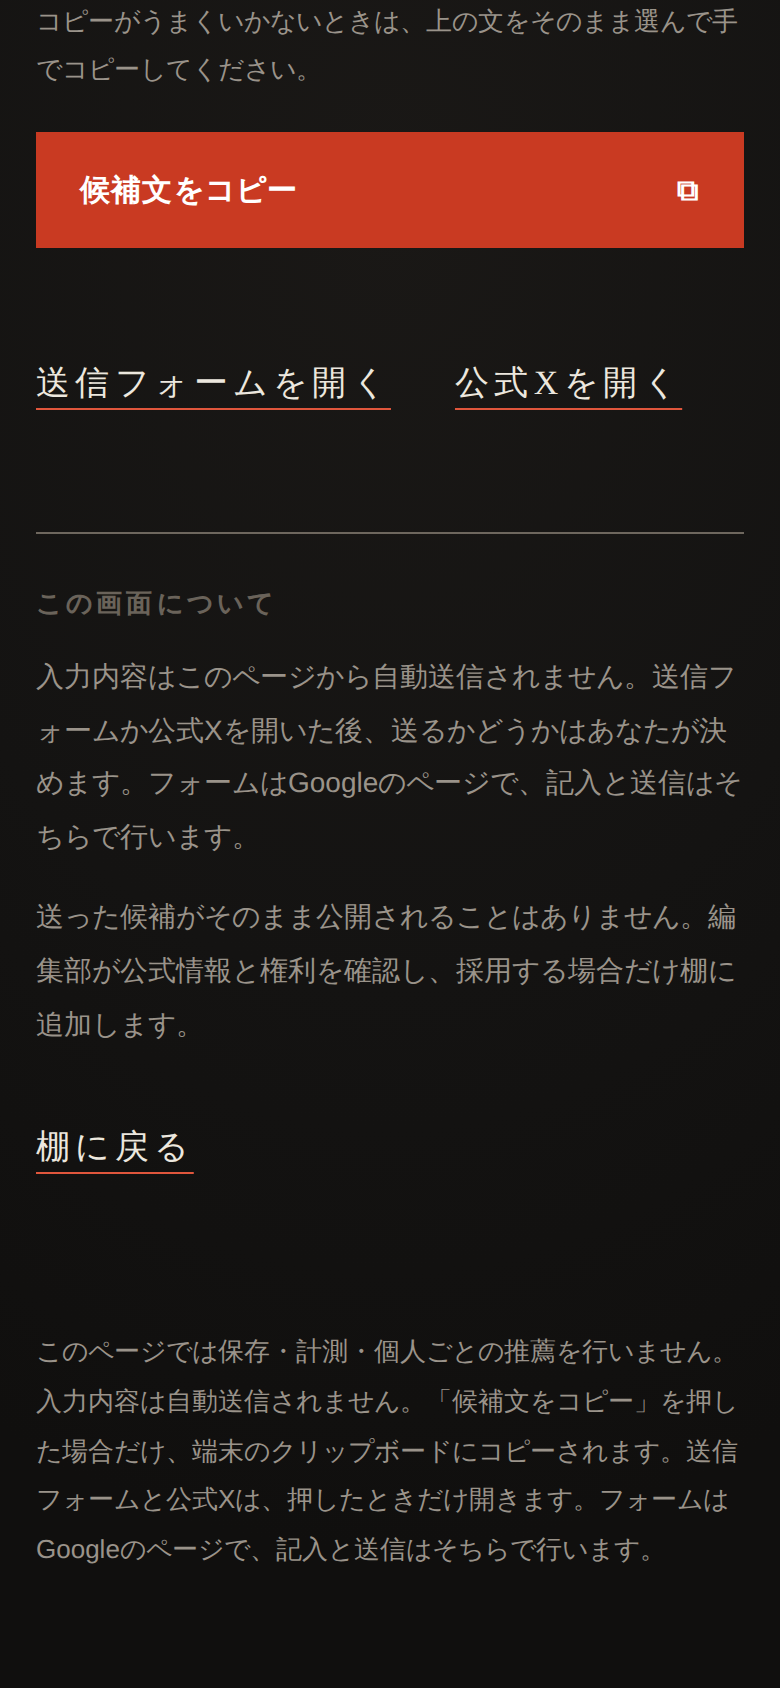
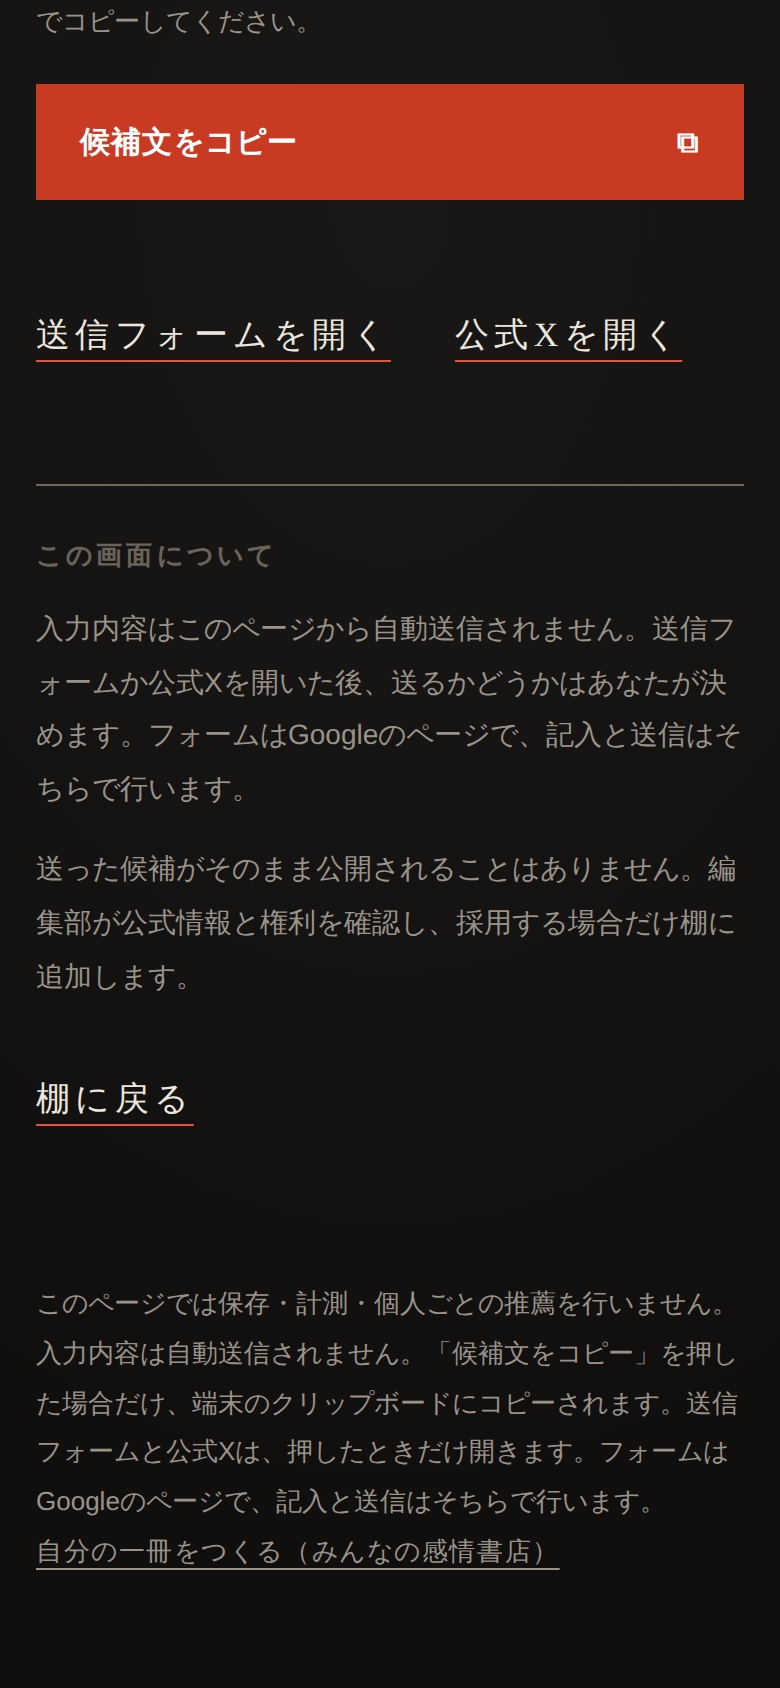
feat: 本体サイトと文化案内を互いにつなぐ
/machi/ は公開したが、そこへ至る導線がどこにも無かった。sitemap には
載っているので検索からは拾われるが、人がたどり着く道が無い状態だった。
逆に文化案内の側にも本体への出口が無く、行き止まりになっていた。

本体サイト（追加は3行）:
- フッターに「街の棚を見る」を1本。凡例と同じ弱さで置き、書店の顔は変えない
- main.js の辞書に machiLink を和英とも追加。文化案内は日本語のみなので、
  英語では "Town shelves (Japanese only)" として、行った先が日本語だと
  先に伝える
- style.css に .machi-row / .machi-link

文化案内（3ページとも）:
- フッターに「自分の一冊をつくる（みんなの感情書店）」を1本

検証:
- machi: release_check GO / browser_qa 559/559 + 1 NOT OBSERVABLE /
  expiry_boundaries GO / preflight GO
- 本体: tests/qa_r21_initial_paint.js 9/9 pass
- 本体をブラウザで読み込み、リンクが可視で href が ./machi/、
  data-i18n が machiLink であること、page error が0件であることを実測
- 文化案内3ページとも戻り導線が可視であることを実測

既知の失敗との分離:
- tests/qa_r21_boot_matrix.js は時間切れ、smoke_test_sonnet_hotfix4.js は
  jsdom 未導入で起動しない。どちらも変更前の HEAD を隔離コピーして同じ
  結果になることを確認済みで、今回起因ではない。

保存・製本・本棚・GA4・外部通信への影響なし。本体に足したのは同一オリジンの
相対リンク1本のみ。

Claude-Session: https://claude.ai/code/session_018poV34fXL7Au8c8NUFyCym

diff --git a/main.js b/main.js
@@ -249,6 +249,7 @@ const MESSAGES = {
     shioriCardTitle: "今日の栞", shioriCardNote: "本棚ぜんたいを眺めた店主から、一枚。今日綴った一冊ではなく、いちばん多く並んでいる棚のお話です。",
     shioriLabel: "栞 — 店主より", shioriBtn: "栞を受け取る",
     footerBrand: "『みんなの感情書店』",
+    machiLink: "街の棚を見る",
     footerNote: "綴った言葉はサーバーには送信されず、この端末にのみ保存されます。",
     // ★Hotfix4追加：フッター注記を指定どおり2行に改行表示するための版（data-i18n-html用）。
     footerNoteHtml: "綴った言葉は運営者のサーバーへ送信されず、<br>この端末にのみ保存されます。",
@@ -771,6 +772,7 @@ const MESSAGES = {
     shioriCardTitle: "Today's Bookmark", shioriCardNote: "A note from the shopkeeper, after looking over your whole bookshelf — about the shelf that holds the most books, not the one you wrote in today.",
     shioriLabel: "Bookmark — from the shopkeeper", shioriBtn: "Receive today's bookmark",
     footerBrand: "\"The Bookstore of Feelings\"",
+    machiLink: "Town shelves (Japanese only)",
     footerNote: "What you write is never sent to a server — it's stored only on this device.",
     footerNoteHtml: "What you write is never sent to our servers —<br>it's stored only on this device.",
     shareBtn: "Share this bookstore", copyUrlBtn: "Copy URL", pwaPinBtn: "Pin to home screen",

diff --git a/index.html b/index.html
@@ -1265,6 +1265,7 @@ body.night .about-data-content{
   <footer class="shop-footer">
     <span data-i18n="footerBrand">『みんなの感情書店』</span><br>
     <span data-i18n-html="footerNoteHtml">綴った言葉は運営者のサーバーへ送信されず、<br>この端末にのみ保存されます。</span>
+    <p class="machi-row"><a class="machi-link" href="./machi/" data-i18n="machiLink">街の棚を見る</a></p>
     <!-- ===== 追加：店主への差し入れ（投げ銭）— 広告バナーではなく"差し入れ"という体裁で、
          世界観を壊さずに任意の支援を受け付ける導線。URLは運営者ご自身のBuy Me a Coffee /
          Ko-fi等のページに差し替えてください（現在はダミーのプレースホルダーです） ===== -->

diff --git a/machi/release.css b/machi/release.css
@@ -1020,3 +1020,16 @@ button:focus-visible, a:focus-visible, .object-card:has(:focus-visible) {
   /* box-shadow が捨てられる環境なので、閉じるの focus は outline で示す。 */
   .dialog-close:focus-visible { outline: 2px solid Highlight; outline-offset: 2px; }
 }
+
+/* 同じブランドのもう一方（言葉を一冊にする書店）への出口。
+   ここから先へ進めないと、案内は行き止まりになる。ただし棚の主役では
+   ないので、注記と同じ弱さで置く。 */
+.sibling-row { margin: 14px 0 0; }
+.sibling-link {
+  color: var(--chalk-dim);
+  text-decoration: underline;
+  text-underline-offset: .28em;
+  font-size: 0.8125rem;
+  letter-spacing: .06em;
+}
+.sibling-link:hover { color: var(--chalk); }

diff --git a/machi/suggest.html b/machi/suggest.html
@@ -107,6 +107,7 @@
 
   <footer class="site-footer">
     <p class="privacy-note">このページでは保存・計測・個人ごとの推薦を行いません。入力内容は自動送信されません。「候補文をコピー」を押した場合だけ、端末のクリップボードにコピーされます。送信フォームと公式Xは、押したときだけ開きます。フォームはGoogleのページで、記入と送信はそちらで行います。</p>
+    <p class="sibling-row"><a class="sibling-link" href="/">自分の一冊をつくる（みんなの感情書店）</a></p>
   </footer>
 
   <div id="live" class="sr-only" role="status" aria-live="polite"></div>

diff --git a/machi/shelf.html b/machi/shelf.html
@@ -66,6 +66,7 @@
 
   <footer class="site-footer">
     <p class="privacy-note">このページでは保存・計測・個人ごとの推薦を行いません。画像の出典と利用条件は各詳細に記載しています。公式リンクは押したときだけ開きます。</p>
+    <p class="sibling-row"><a class="sibling-link" href="/">自分の一冊をつくる（みんなの感情書店）</a></p>
   </footer>
 
   <dialog id="detailDialog" class="detail-dialog" aria-labelledby="detailTitle">

diff --git a/machi/index.html b/machi/index.html
@@ -75,6 +75,7 @@
 
   <footer class="site-footer">
     <p class="privacy-note">このページでは保存・計測・個人ごとの推薦を行いません。画像の出典と利用条件は各詳細に記載しています。公式リンクは押したときだけ開きます。</p>
+    <p class="sibling-row"><a class="sibling-link" href="/">自分の一冊をつくる（みんなの感情書店）</a></p>
   </footer>
 
   <div id="live" class="sr-only" role="status" aria-live="polite"></div>

diff --git a/style.css b/style.css
@@ -1667,6 +1667,14 @@ footer.shop-footer{
   text-decoration:underline;
 }
 .legal-sep{ color:var(--ink-soft); margin:0 6px; }
+/* 文化案内（/machi/）への静かな出口。書店の顔を壊さないよう、
+   凡例と同じ弱さで置く。押した人だけが別の入口へ移る。 */
+.machi-row{ margin:16px 0 0; }
+.machi-link{
+  color:var(--ink-soft);
+  text-decoration:underline;
+  font-size:11.5px;
+}
 .share-btn{
   font-family:var(--font-display);
   font-size:13px;
